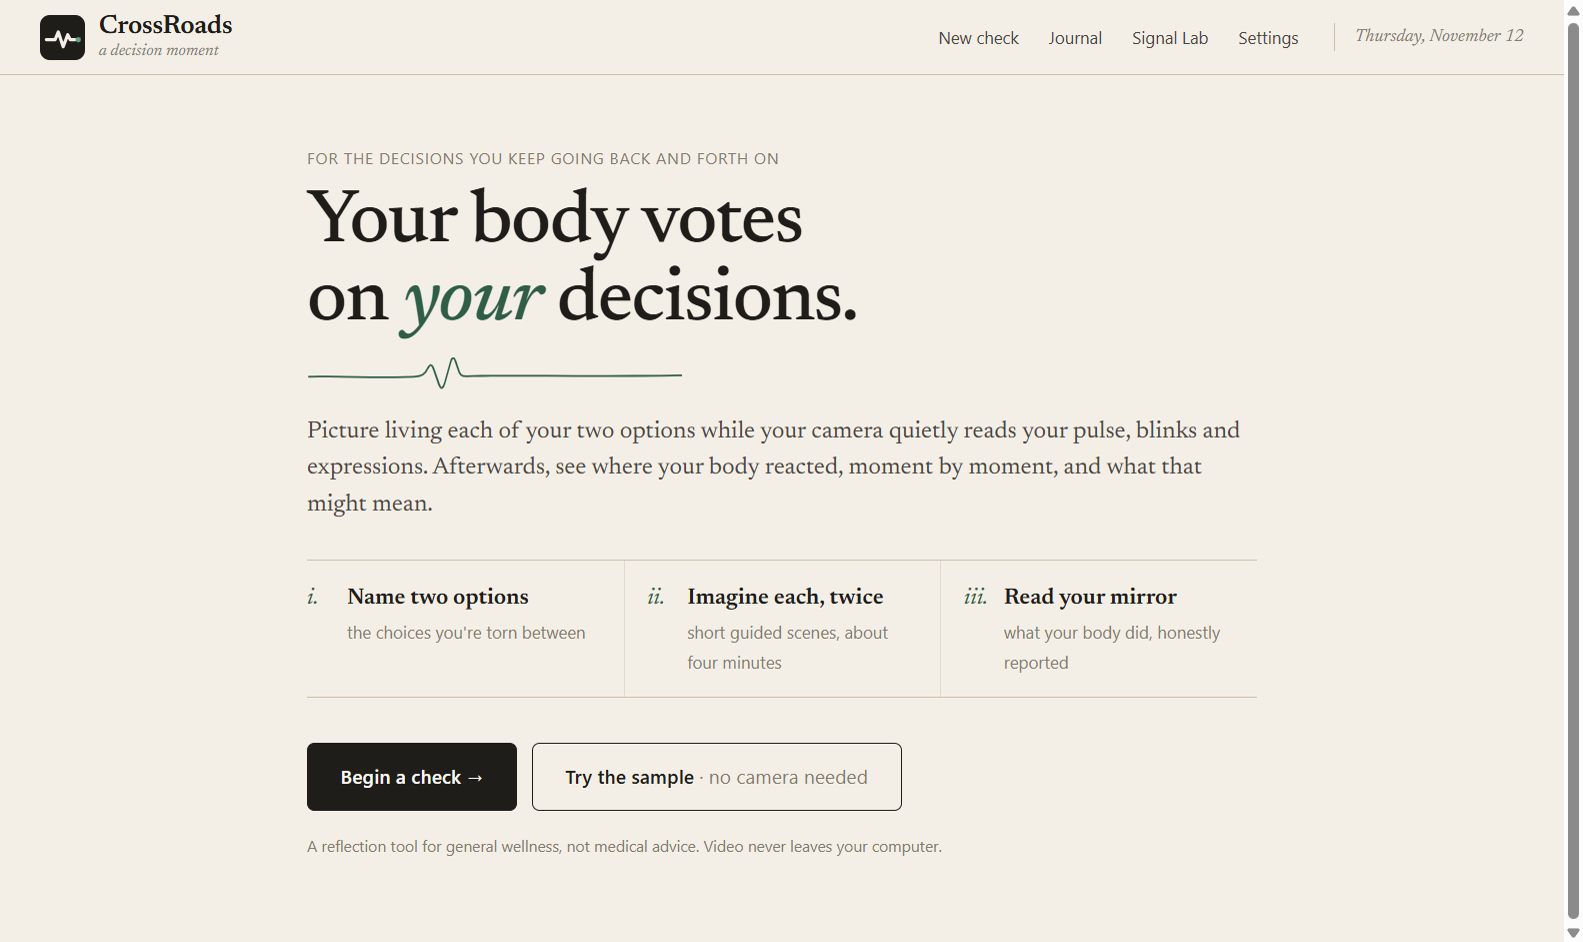
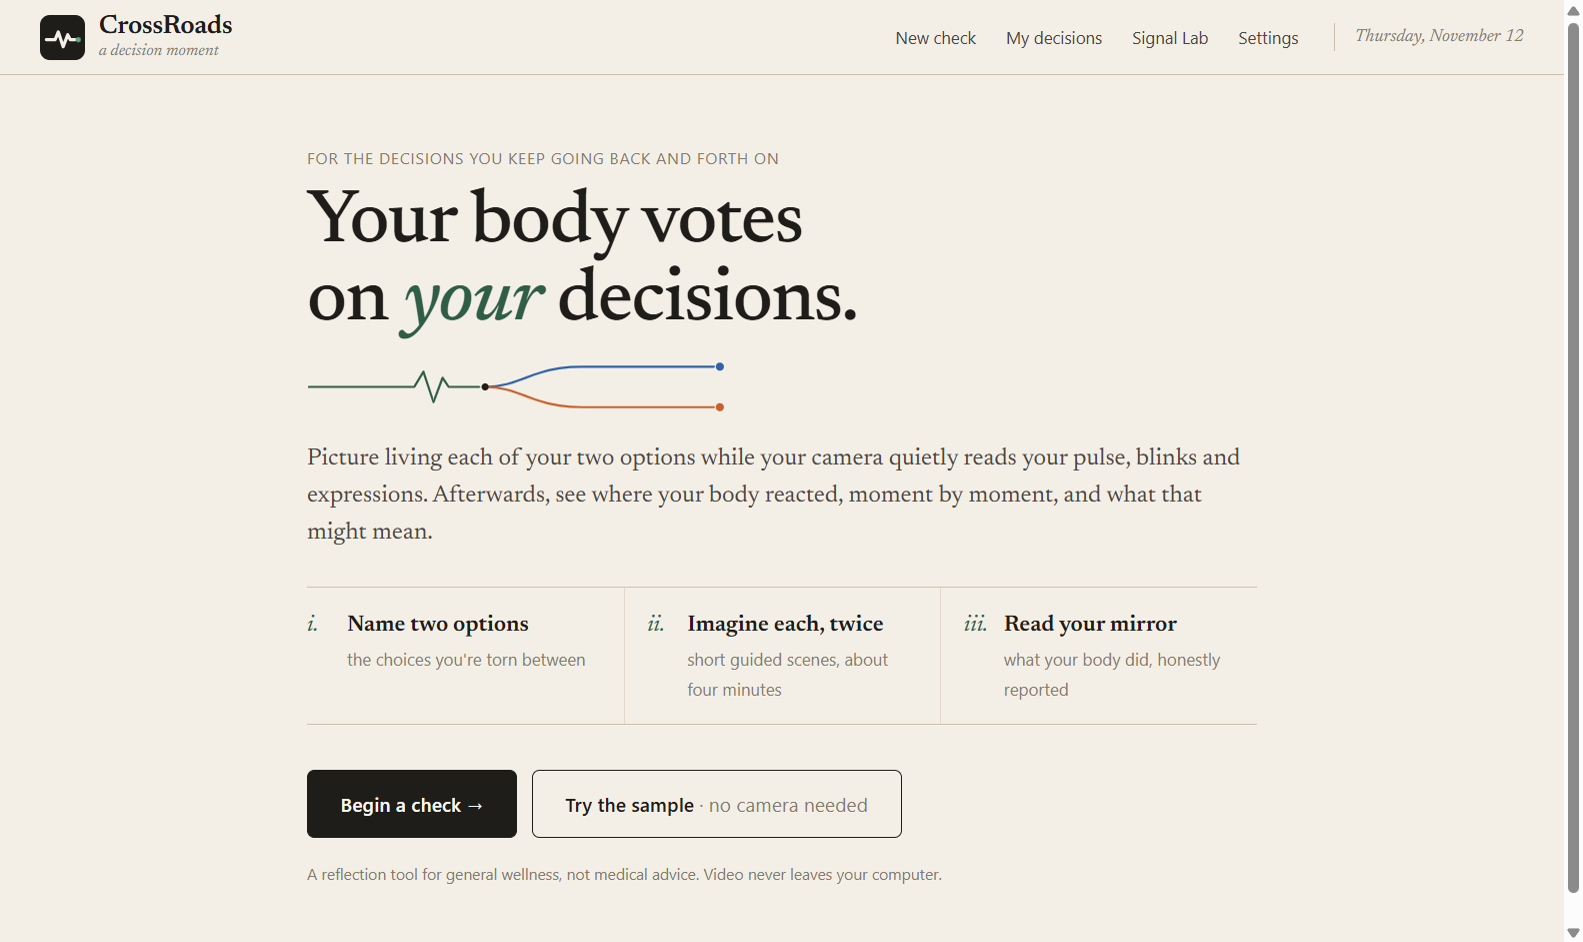
UI: My decisions, welcome line splits into two paths, screen error logging

diff --git a/src/renderer/index.html b/src/renderer/index.html
@@ -20,7 +20,7 @@
     </button>
     <nav>
       <button data-go="options" class="nav">New check</button>
-      <button data-go="history" class="nav">Journal</button>
+      <button data-go="history" class="nav">My decisions</button>
       <a href="lab.html" class="nav">Signal Lab</a>
       <button data-go="settings" class="nav">Settings</button>
       <span id="todayDate" class="today"></span>
@@ -32,9 +32,14 @@
     <div class="center hero">
       <p class="eyebrow">For the decisions you keep going back and forth on</p>
       <h1>Your body votes<br>on <em>your</em> decisions.</h1>
-      <svg class="hand-line" viewBox="0 0 420 40" aria-hidden="true">
-        <path d="M2 24c40-1 78 2 118 0 9-.5 12-3 15-9 2.5-5 5-6 7 1l6 17c2 5 4 5 6-1l7-25c1.5-5 4-5 5.5 0l4 12c1.5 4 4 5 8 4.5 50-2 120 1 245-1"
-              fill="none" stroke="currentColor" stroke-width="2" stroke-linecap="round" stroke-linejoin="round"/>
+      <svg class="hand-line" viewBox="0 0 420 64" aria-hidden="true">
+        <!-- a heartbeat that reaches a crossroads and splits into the two options -->
+        <path d="M2 32h104l9-15 10 30 9-24 6 9h30" fill="none" stroke="#2f5d46" stroke-width="2.2" stroke-linecap="round" stroke-linejoin="round"/>
+        <path d="M176 32c36 0 46-20 96-20h130" fill="none" stroke="#2f62a8" stroke-width="2.2" stroke-linecap="round"/>
+        <path d="M176 32c36 0 46 20 96 20h130" fill="none" stroke="#c8612e" stroke-width="2.2" stroke-linecap="round"/>
+        <circle cx="408" cy="12" r="4" fill="#2f62a8"/>
+        <circle cx="408" cy="52" r="4" fill="#c8612e"/>
+        <circle cx="176" cy="32" r="3.5" fill="#1f1d1a"/>
       </svg>
       <p class="lead">Picture living each of your two options while your camera quietly reads your pulse, blinks and
         expressions. Afterwards, see where your body reacted, moment by moment, and what that might mean.</p>
@@ -242,11 +247,11 @@
 
       <div id="choiceCard" class="card choice hidden">
         <h3>What did you decide?</h3>
-        <p class="muted">Come back once you've made the decision. Over time your Journal shows whether your choice matched what your body did.</p>
+        <p class="muted">Come back once you've made the decision. Over time your decisions list shows whether your choice matched what your body did.</p>
         <div id="choiceButtons" class="row"></div>
         <textarea id="choiceNote" rows="2" maxlength="500" placeholder="Optional: how do you feel about it now?"></textarea>
         <div class="row">
-          <button id="saveChoice" class="primary">Save to journal</button>
+          <button id="saveChoice" class="primary">Save</button>
           <span id="choiceSaved" class="muted"></span>
         </div>
       </div>
@@ -259,7 +264,7 @@
       </details>
 
       <div class="actions">
-        <button class="ghost" data-go="history">← Back to journal</button>
+        <button class="ghost" data-go="history">← Back to my decisions</button>
         <button id="newSession" class="primary">New check</button>
       </div>
     </div>
@@ -268,7 +273,7 @@
   <!-- 7. History -->
   <section id="screen-history" class="screen">
     <div class="center wide">
-      <p class="eyebrow">Journal</p>
+      <p class="eyebrow">My decisions</p>
       <h2>Your past decisions</h2>
       <p class="lead">Every decision you've checked, newest first. Open one to read its mirror again. Everything stays on this computer.</p>
       <div id="historyList" class="history-list"></div>

diff --git a/src/renderer/app.css b/src/renderer/app.css
@@ -133,7 +133,7 @@ input[type="checkbox"], input[type="radio"] { accent-color: var(--ink); width: 1
 /* ---------- Welcome ---------- */
 
 .hero { max-width: 760px; }
-.hand-line { width: 300px; height: 30px; color: var(--accent); margin: 4px 0 18px; display: block; }
+.hand-line { width: 340px; height: 52px; margin: 6px 0 18px; display: block; overflow: visible; }
 .steps { list-style: none; padding: 0; margin: 0 0 36px; display: grid; grid-template-columns: repeat(3, 1fr); border-top: 1px solid var(--rule-strong); border-bottom: 1px solid var(--rule-strong); }
 .steps li { display: flex; gap: 10px; padding: 16px 18px 16px 0; }
 .steps li + li { padding-left: 18px; border-left: 1px solid var(--rule); }
@@ -318,7 +318,7 @@ table.results th { color: var(--muted); font-weight: 500; font-size: 13px; }
 table.results td.num { font-variant-numeric: tabular-nums; }
 .up { color: var(--warn); }
 
-/* ---------- Journal (history) ---------- */
+/* ---------- My decisions (history) ---------- */
 
 .history-list { display: grid; border-top: 1px solid var(--rule-strong); }
 .history-item { display: grid; grid-template-columns: 1fr auto auto; gap: 16px; align-items: center; text-align: left; width: 100%; border-bottom: 1px solid var(--rule); padding: 18px 4px; cursor: pointer; }

diff --git a/src/renderer/app.js b/src/renderer/app.js
@@ -9,6 +9,10 @@ const { REQUESTED_METRICS } = require('../core/metrics');
 const $ = (id) => document.getElementById(id);
 const bridge = window.gutCheck.sdk;
 
+// Unexpected errors go to the log (visible in the terminal when run from source).
+window.addEventListener('error', (e) => console.log(`Screen error: ${e.message} at ${e.filename}:${e.lineno}`));
+window.addEventListener('unhandledrejection', (e) => console.log(`Unhandled: ${e.reason?.stack || e.reason}`));
+
 const CAMERA_PREF_KEY = 'gutcheck.cameraName';
 
 // Friendly versions of the SDK's ValidationCode guidance.
@@ -642,7 +646,7 @@ function choiceLabel(session) {
   return c.optionIndex == null ? 'still deciding' : `"${session.options[c.optionIndex].label}"`;
 }
 
-// "What did you decide?": only for real sessions saved in the journal.
+// "What did you decide?": only for real sessions saved in My decisions.
 function renderChoice(result, sessionName) {
   const card = $('choiceCard');
   const show = !!sessionName && !result.demo && !result.sample;

diff --git a/README.md b/README.md
@@ -66,7 +66,7 @@ For live measurement you need a free Presage API key from [physiology.presagetec
 2. **Consent and camera check.** A free preview checks your framing and frame rate before anything is measured.
 3. **The session (~4 minutes).** A calm baseline, then each option twice in a mirrored order. Every 10 seconds a new prompt helps you picture living that option ("a month in, how do your evenings feel?"). Read silently and imagine.
 4. **Your mirror.** Pulse through the session, the prompts after which your pulse rose most, reflection questions, and (only with strong evidence) the option your body stayed calmer with.
-5. **Your journal.** Every check is saved locally. Later you can record what you actually decided and compare it with what your body did.
+5. **My decisions.** Every check is saved locally. Later you can record what you actually decided and compare it with what your body did.
 
 ![Session timeline](docs/images/session-timeline.svg)
 
@@ -127,7 +127,7 @@ Main process (SDK, camera, storage, encrypted key) · context-isolated preload b
 - **Video never leaves the app.** The SDK processes frames on your computer. CrossRoads saves only your two options, phase timings and numbers (pulse, breathing, blinks, expression scores). Never video.
 - **Stored locally only**: `%APPDATA%\crossroads` (installed app). No accounts, no analytics, no AI services, no other network requests by CrossRoads.
 - **SDK network use:** according to Presage, the SDK contacts their servers to check the API key and credits. SDK telemetry is switched off. We have not measured the SDK's traffic ourselves.
-- **Delete any time:** one session in the Journal, or everything in Settings → *Delete all my data*. The API key can be removed in Settings.
+- **Delete any time:** one session in My decisions, or everything in Settings → *Delete all my data*. The API key can be removed in Settings.
 - **Not medical.** A general wellness reflection tool; no diagnosis, no treatment, no medical decisions. For reflecting on your own decisions only, never for measuring other people.
 
 Full details: [docs/PRIVACY.md](docs/PRIVACY.md).
@@ -147,7 +147,7 @@ Full details: [docs/PRIVACY.md](docs/PRIVACY.md).
 **Path 3 · A full check (5 minutes, ~8 credits)**
 1. **Begin a check** → enter two options (try "A quiet afternoon at the beach" / "Giving a speech to 1,000 people with no preparation") → consent → pick your camera → **Begin session**.
 2. Sit back, face the light, read the prompts silently and really imagine each scene → *settle, calm baseline, four visits, ~4 minutes*.
-3. → *Your mirror: a headline, both options' pulse, the timeline, reaction moments and questions. The session appears in the Journal.*
+3. → *Your mirror: a headline, both options' pulse, the timeline, reaction moments and questions. The session appears in My decisions.*
 
 ## Run from source
 
@@ -199,7 +199,7 @@ npm start
 | Criterion or category | Where to see it |
 |---|---|
 | **Use of the underlying technology** | Native SDK capture in the main process, 7 metrics requested, validation status turned into guidance, filters for the SDK's real behaviour (warm-up, spikes, confidence), a live preview from `videoOutput`: [SDK-NOTES](docs/SDK-NOTES.md), [ARCHITECTURE](docs/ARCHITECTURE.md) |
-| **Usability and UX** | Four-minute guided sessions, a journal-style design, plain-language guidance, a sample that needs no camera, an installer, the Journal and "What did you decide?" |
+| **Usability and UX** | Four-minute guided sessions, a journal-style design, plain-language guidance, a sample that needs no camera, an installer, the My decisions list and "What did you decide?" |
 | **Originality and creativity** | The only entry comparing two life options; A B B A visits; an honest "didn't pick a side"; tested against null and positive controls, including a repeat that did not replicate: [VALIDATION](docs/VALIDATION.md) |
 | **Best Thoughtful Real-World Use** (prize category) | Consent first, local-only data, deletion, no medical claims, reflection instead of a verdict: [PRIVACY](docs/PRIVACY.md) |
 

diff --git a/docs/ARCHITECTURE.md b/docs/ARCHITECTURE.md
@@ -40,7 +40,7 @@ The SDK runs **in the main process** because the SDK's other Electron mode (rend
 | [`src/core/vitals.js`](../src/core/vitals.js) | Decodes SDK protobuf packets into pulse, breathing, HRV, expression scores, blinks; `BlinkCounter` de-duplicates overlapping packets |
 | [`src/core/session.js`](../src/core/session.js) | `buildPlan` (A B B A visits, prompts) and `SessionRunner` (phase clock, settle gate, time limits, time-series collection, scripted replay) |
 | [`src/core/analysis.js`](../src/core/analysis.js) | Reading filters, per-visit medians, the verdict rule, reaction moments. A pure function of the saved session JSON |
-| [`src/renderer/app.js`](../src/renderer/app.js) | All screens: welcome, options, consent, camera check, session, results, journal, settings, sample |
+| [`src/renderer/app.js`](../src/renderer/app.js) | All screens: welcome, options, consent, camera check, session, results, my decisions, settings, sample |
 | [`src/renderer/timeline.js`](../src/renderer/timeline.js) | The pulse-over-time SVG chart with hover tooltips |
 | [`src/renderer/lab.*`](../src/renderer/lab.js) | Signal Lab: developer page for raw signals, short tests and raw replays |
 | [`scripts/`](../scripts) | `build.js` (esbuild bundles), `start.js` (launch), `analyze-session.js` (prints any session's analysis), `make-icon.js` |
@@ -85,7 +85,7 @@ flowchart LR
     SDK -. 320 px preview .-> UI
 ```
 
-The analysis only ever reads the saved session JSON, so the same function powers the live result, the Journal, the bundled sample and `npm run analyze`.
+The analysis only ever reads the saved session JSON, so the same function powers the live result, My decisions, the bundled sample and `npm run analyze`.
 
 ![Verdict flow](images/verdict-flow.svg)
 
@@ -127,7 +127,7 @@ Everything the window can do, and nothing more:
 | `sdk:start`, `sdk:stop`, `sdk:destroy`, `sdk:readiness` | measurement lifecycle |
 | `sdk:event`, `sdk:preview` | main → window: SDK events, preview pixels |
 | `recording:begin`, `recording:append` | stream the raw recording |
-| `session:save`, `session:list`, `session:read`, `session:setChoice`, `session:delete` | the Journal |
+| `session:save`, `session:list`, `session:read`, `session:setChoice`, `session:delete` | My decisions (the saved list) |
 | `sample:read` | the bundled sample session |
 | `settings:get`, `settings:saveKey`, `settings:removeKey` | API key (encrypted) |
 | `data:openFolder`, `data:deleteAll` | data folder and deletion |

diff --git a/docs/MANUAL-TESTS.md b/docs/MANUAL-TESTS.md
@@ -11,9 +11,9 @@ Checks that need a real camera, a real API key or the installed app, with the da
 | 3 | Settings → paste key → **Save key** | Status "Saved (encrypted on this computer)" | ✅ Nov 12 (installed) |
 | 4 | Signal Lab → phone camera → 30 s live test | Pulse, breathing, blinks, expression appear; stops by itself; recording saved | ✅ Nov 12 (installed) |
 | 5 | Settings → **Open data folder** | `%APPDATA%\crossroads` opens, recording present | ✅ Nov 12 (installed; the folder was `gut-check` before the rename) |
-| 6 | Full check: two options → consent → camera check → session | Settle → baseline → 4 visits → results; session in the Journal | ✅ Nov 12 (dev build, 3 sessions; installed CrossRoads 1.0.0, 1 session) |
-| 7 | Results → **What did you decide?** → Save | Choice shown on the result and in the Journal | ✅ Nov 12 (installed; choice saved in the session file) |
-| 8 | Journal → **Delete** one session | Session and its recording removed | ⏳ installed final build |
+| 6 | Full check: two options → consent → camera check → session | Settle → baseline → 4 visits → results; session in My decisions | ✅ Nov 12 (dev build, 3 sessions; installed CrossRoads 1.0.0, 1 session) |
+| 7 | Results → **What did you decide?** → Save | Choice shown on the result and in My decisions | ✅ Nov 12 (installed; choice saved in the session file) |
+| 8 | My decisions → **Delete** one session | Session and its recording removed | ⏳ installed final build |
 | 9 | Bad lighting / face out of frame during settle | Guidance hint shown; after 90 s the session stops and says which check failed | ✅ Nov 11 (replay of a failing recording) |
 | 10 | Installer contents | No API key, no sessions or recordings inside; SDK loads | ✅ Nov 12 (scripted scan) |
 

diff --git a/docs/ROADMAP.md b/docs/ROADMAP.md
@@ -58,12 +58,12 @@ Legend: `[ ]` to do · `[x]` done · 👤 = needs **you (Pawan)** · 💳 = spen
 - [x] Visual design: colour brand, top bar + navigation, new welcome page, coloured signal tiles
 - [x] Session screen with the Signal Lab layout: live camera, live vitals, session log, focus mode
 - [ ] Optional AI reflection (Presage "insights", free)
-- [x] Session history: reopen past sessions (the "Journal")
+- [x] Session history: reopen past sessions (now called "My decisions")
 - [x] Bundled sample session (beach vs speech, camera name redacted): real results + scripted replay, no camera or key needed
 - [x] Automated tests (21, `npm test`) + GitHub Actions CI
 - [x] Plausibility gate for impossible pulse jumps (all real verdicts unchanged)
 - [x] Settings: own Presage key stored encrypted (safeStorage); data folder; delete one session or all data
-- [x] "What did you decide?" saved to the journal
+- [x] "What did you decide?" saved to My decisions
 - [x] Reduced-motion support
 - [x] Windows installer + portable exe (`npm run dist` → `release/`), checked: no key, no personal data inside, SDK loads
 - [x] 👤 Installed it: sample OK, key saved in Settings, 30 s Signal Lab live test OK, recording saved to `%APPDATA%\gut-check` (Nov 12)

diff --git a/docs/PRIVACY.md b/docs/PRIVACY.md
@@ -38,7 +38,7 @@ CrossRoads reads signals from a camera, so this page says exactly what happens w
 ## Retention and deletion
 
 - Data is kept until **you** delete it. Nothing expires or syncs.
-- **Journal → Delete** removes one session and its paired recording.
+- **My decisions → Delete** removes one session and its paired recording.
 - **Settings → Delete all my data** removes every session and recording.
 - **Settings → Remove** deletes the stored API key.
 - Uninstalling the app leaves the data folder in place; delete it by hand if you want everything gone.
